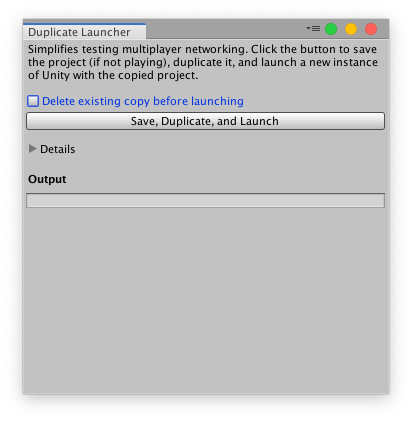
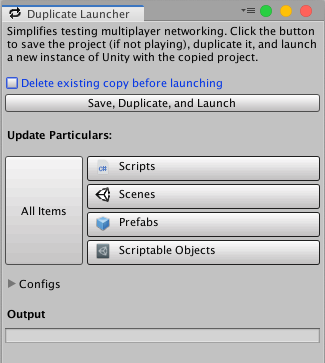
Updated Duplicate Launcher with copy only certain folders

diff --git a/ProfPollatiUtilities/Assets/Plugins/Duplicate Launcher/Editor/LaunchDuplicator.cs b/ProfPollatiUtilities/Assets/Plugins/Duplicate Launcher/Editor/LaunchDuplicator.cs
@@ -10,9 +10,9 @@ using System.Diagnostics;
 public class LaunchDuplicator : EditorWindow {
 	private static Process newUnity = null;
 
-	private string unityLocation = ""; // Moved to on Enable
-	private string baseDir = ""; // Moved to on Enable
-	private string destDir = ""; // Moved to on Enable
+	private string unityLocation = ""; // Set in OnEnable
+	private string baseDir = "";       // Set in OnEnable
+	private string destDir = "";       // Set in OnEnable
 
 	private string output = "";
 
@@ -20,13 +20,17 @@ public class LaunchDuplicator : EditorWindow {
 	private bool deleteBeforeCopy = false;
 
 	private Vector2 scrollArea;
+	private Vector2 scrollConfigArea;
 	private Vector2 scrollOutputArea;
 
+	GUILayoutOption[] tinyIcons_GUILayoutOption = new GUILayoutOption[] { GUILayout.Width(20.0f), GUILayout.Height(20.0f) };
+
 	// Add menu item named "Duplicate Launcher" to a new menu
-	[MenuItem("Pollati Utilities/Duplicate Launcher",false,2)]
+	[MenuItem("Pollati Utilities/Duplicate Launcher")]
 	public static void ShowWindow() {
 		//Show existing window instance. If one doesn't exist, make one.
-		EditorWindow.GetWindow(typeof(LaunchDuplicator),false,"Duplicate Launcher");
+		LaunchDuplicator launchDuplicatorWindow = (LaunchDuplicator)EditorWindow.GetWindow(typeof(LaunchDuplicator));
+		launchDuplicatorWindow.titleContent = new GUIContent(" Duplicate Launcher", EditorGUIUtility.FindTexture("d_preAudioLoopOff"));
 	}
 
 	private void OnEnable() {
@@ -46,53 +50,104 @@ public class LaunchDuplicator : EditorWindow {
 		// Delete option
 		deleteBeforeCopy = EditorGUILayout.ToggleLeft("Delete existing copy before launching",deleteBeforeCopy);
 
-		// If the duplicate Unity is running, allow us to terminate it
-		if(newUnity!=null && newUnity.HasExited==false) {
-			if(GUILayout.Button("Terminate")) {
-				TerminateUnity();
-			}
-		} else {
-			// Otherwise, if the editor is playing the game, duplicate and launch
-			if(Application.isPlaying) {
-				if(GUILayout.Button("Duplicate and Launch")) {
-					DuplicateAndLaunch();
-				}
-			// But if the editor is not playing the game, we should save the scene and assets
+			// If the duplicate Unity is running, allow us to terminate it
+			if(newUnity!=null && newUnity.HasExited==false) {
+				if(GUILayout.Button("Terminate")) { TerminateUnity(); }
 			} else {
-				if(GUILayout.Button("Save, Duplicate, and Launch")) {
-					DuplicateAndLaunch();
+				// Otherwise, if the editor is playing the game, duplicate and launch
+				if(Application.isPlaying) {
+					if(GUILayout.Button("Duplicate and Launch")) { DuplicateAndLaunch(); }
+				// But if the editor is not playing the game, we should save the scene and assets
+				} else {
+					if(GUILayout.Button("Save, Duplicate, and Launch")) { DuplicateAndLaunch(); }
 				}
 			}
-		}
-		EditorGUILayout.Space();
 
-		// Output
-		showDetails = EditorGUI.Foldout(EditorGUILayout.GetControlRect(), showDetails, "Details", true);
-		if(showDetails) {
-			// Display the current project folder
-			GUILayout.Label ("Project Base:", EditorStyles.boldLabel);
-			GUILayout.TextField (baseDir, EditorStyles.wordWrappedLabel);
+			EditorGUILayout.Space();
+			GUILayout.Label("Update Particulars:", EditorStyles.boldLabel);
+			EditorGUILayout.Space();
 
-			// Show where the duplicate project folder will be
-			GUILayout.Label ("Destination Directory: ", EditorStyles.boldLabel);
-			GUILayout.TextField (destDir, EditorStyles.wordWrappedLabel);
+			EditorGUILayout.BeginHorizontal();
+				// Button to update all assets instead of making a complete copy
+				EditorGUILayout.BeginVertical();
+					if(GUILayout.Button("All Items",GUILayout.MinHeight(109.0f))) { UpdateItems(); }
+				EditorGUILayout.EndVertical();
 
-			// Show the location of Unity executable, allow it to be edited in case the user wants to
-			GUILayout.Label ("Unity Application Location: ", EditorStyles.boldLabel);
-			unityLocation = GUILayout.TextField (unityLocation, EditorStyles.textField);
-		}
-		EditorGUILayout.Space();
+				// Buttons to update only certain folders instead of making a complete copy
+				EditorGUILayout.BeginVertical();
+					if (GUI.Button(EditorGUILayout.BeginHorizontal("Button"), GUIContent.none)) { UpdateFolder("Scripts/"); }
+						GUILayout.Label(EditorGUIUtility.FindTexture("cs Script Icon"),tinyIcons_GUILayoutOption);
+						GUILayout.Label("Scripts");
+					EditorGUILayout.EndHorizontal();
+					
+					if (GUI.Button(EditorGUILayout.BeginHorizontal("Button"), GUIContent.none)) { UpdateFolder("Scenes/"); }
+						GUILayout.Label(EditorGUIUtility.FindTexture("BuildSettings.Editor"),tinyIcons_GUILayoutOption);
+						GUILayout.Label("Scenes");
+					EditorGUILayout.EndHorizontal();
 
-		// Show output so we can see what is going on, or wrong.
-		GUILayout.Label ("Output ", EditorStyles.boldLabel);
+					if (GUI.Button(EditorGUILayout.BeginHorizontal("Button"), GUIContent.none)) {  UpdateFolder("Prefabs/"); }
+						GUILayout.Label(EditorGUIUtility.FindTexture("Prefab Icon"),tinyIcons_GUILayoutOption);
+						GUILayout.Label("Prefabs");
+					EditorGUILayout.EndHorizontal();
 
-		// Scrollable output window
-		scrollOutputArea = EditorGUILayout.BeginScrollView(scrollOutputArea);
-		EditorGUILayout.TextArea(output, EditorStyles.textArea);
-		EditorGUILayout.EndScrollView();
+					if (GUI.Button(EditorGUILayout.BeginHorizontal("Button"), GUIContent.none)) {  UpdateFolder("Scriptable Objects/"); }
+						GUILayout.Label(EditorGUIUtility.IconContent("ScriptableObject Icon"),tinyIcons_GUILayoutOption);
+						GUILayout.Label("Scriptable Objects");
+					EditorGUILayout.EndHorizontal();
+				EditorGUILayout.EndVertical();
+			EditorGUILayout.EndHorizontal();
+
+			EditorGUILayout.Space();
+
+			// Output
+			showDetails = EditorGUI.Foldout(EditorGUILayout.GetControlRect(), showDetails, "Configs", true);
+			if(showDetails) {
+				scrollConfigArea = EditorGUILayout.BeginScrollView(scrollConfigArea,GUILayout.MinHeight(175));
+					// Display the current project folder
+					GUILayout.Label ("Project Base:", EditorStyles.boldLabel);
+					GUILayout.TextField (baseDir, EditorStyles.wordWrappedLabel);
+
+					// Show where the duplicate project folder will be
+					GUILayout.Label ("Destination Directory: ", EditorStyles.boldLabel);
+					GUILayout.TextField (destDir, EditorStyles.wordWrappedLabel);
+
+					// Show the location of Unity executable, allow it to be edited in case the user wants to
+					GUILayout.Label ("Unity Application Location: ", EditorStyles.boldLabel);
+					unityLocation = GUILayout.TextField (unityLocation, EditorStyles.textField);
+				EditorGUILayout.EndScrollView();
+			}
+
+			EditorGUILayout.Space();
+
+			// Show output so we can see what is going on, or wrong.
+			GUILayout.Label ("Output ", EditorStyles.boldLabel);
+
+			// Scrollable output window
+			scrollOutputArea = EditorGUILayout.BeginScrollView(scrollOutputArea, GUILayout.MinHeight(75));
+				EditorGUILayout.TextArea(output, EditorStyles.textArea);
+			EditorGUILayout.EndScrollView();
 
 		// End main scroll area
 		EditorGUILayout.EndScrollView();
+
+		EditorGUILayout.Space();
+	}
+
+	void UpdateFolder(string which) {
+		string baseDirComplete = baseDir + Path.DirectorySeparatorChar + "Assets" + Path.DirectorySeparatorChar + which;
+		string destDirComplete = destDir + Path.DirectorySeparatorChar + "Assets" + Path.DirectorySeparatorChar + which;
+
+		if(deleteBeforeCopy) {
+			FileUtil.DeleteFileOrDirectory(destDirComplete);
+		}
+		DirectoryCopy(baseDirComplete, destDirComplete,true,true);
+	}
+
+	void UpdateItems() {
+		UpdateFolder("Scripts/");
+		UpdateFolder("Scenes/");
+		UpdateFolder("Prefabs/");
+		UpdateFolder("Scriptable Objects/");
 	}
 
 	/// <summary>

diff --git a/README.md b/README.md
@@ -45,9 +45,11 @@ When trying to test out your project for the Multiplayer assignments, you either
 
 ![](images/DuplicateLauncher.png)
 
-This will add a window with controls for you to **Save, Duplicate and Launch**. If you are running the game, it will only **Duplicate and Launch**. You cannot save the scenes or project since it may lead to issue with project. 
+This will add a window with controls for you to **Save, Duplicate and Launch**. If you are running the game, it will only **Duplicate and Launch** since you cannot save the scenes or project since it may lead to issue with project.
 
-Expanding the Details will tell you the location of the project, where it gets duplicated to, and the location of Unity's executable which you can edit incase your is in a different location.
+Once you've made a copy and you only need to update certain files, like scripts, scenes, prefabs or scriptable objects, then you just click on the button for that particular item or copy all of those with _All Items_.
+
+Expanding the _Configs_ will tell you the location of the project, where it gets duplicated to, and the location of Unity's executable which you can edit incase your is in a different location.
 
 ## Quick Switcher
 
